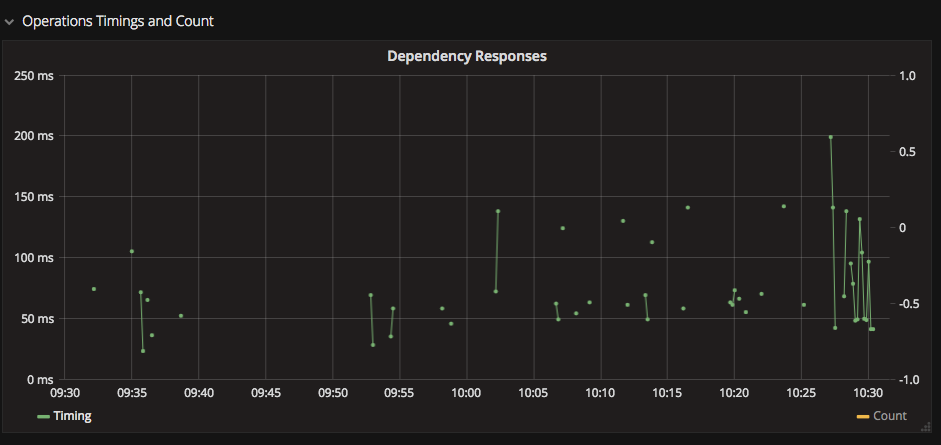
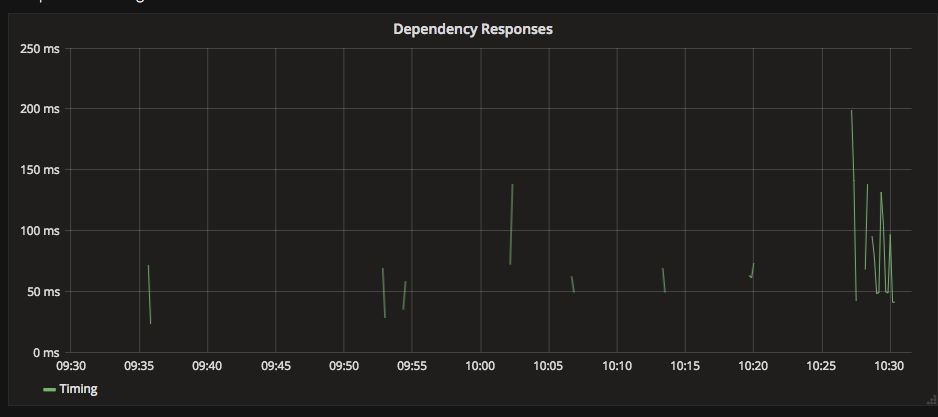
sparse datapoints

diff --git a/_posts/2018-06-28-be-a-grafana-power-user.md b/_posts/2018-06-28-be-a-grafana-power-user.md
@@ -10,7 +10,7 @@ This is a collection of tips and suggestions to make sure that your use of these
 
 <!--more-->
 
-## Summarise all graphs by a templated interval to allow easy control of data granularity
+## 1. Summarise all graphs by a templated interval to allow easy control of data granularity
 
 Grafana is pretty good at trying to guess the interval at which you want to summarise your data, but it doesn't always get it right.
 
@@ -26,7 +26,7 @@ An overridden interval of 1 hour
 
 Trends in the data can be made more obvious by viewing it at the right level of detail.
 
-## Never transform null timings to zero
+## 2. Never transform null timings to zero
 
 In a sparse data set, it's tempting to guarantee that your data does not have huge gaps in it. When counting a stat, e.g. requests per second, a gap in the data means that you got no requests. In this case applying [transformNull(0)](http://graphite.readthedocs.io/en/latest/functions.html#graphite.render.functions.transformNull) makes sense, filling in the gaps in the visualisation.
 
@@ -38,21 +38,33 @@ It now appears that our timings are very spiky and unreliable, which might not b
 
 A gap in latency stats does NOT mean that the latency was 0. It means that no data was available. The gaps in the visualisation tell us that we are not able to answer any questions during that period.
 
-Omitting [transformNull(0)](http://graphite.readthedocs.io/en/latest/functions.html#graphite.render.functions.transformNull) from timing graphs, and rendering with the [Points draw mode](http://docs.grafana.org/features/panels/graph/#draw-modes) highlights the present and absence of data much more clearly.
+Omitting [transformNull(0)](http://graphite.readthedocs.io/en/latest/functions.html#graphite.render.functions.transformNull) from timing graphs highlights the present and absence of data much more clearly.
 
 ![Timings with missing left blank](/images/posts/2018-06-28-be-a-grafana-power-user/transformnull-disabled.png)
 
 Lack of data should not be hidden. Think carefully before transforming data to ensure that the transformation does not obscure the meaning of the data. Graphs are about making information visible, not hiding it.
 
-## On sparse timing data, datapoints can appear as 0 width spots and be invisible, use small spots to make them visible again
-  "https://www.dropbox.com/s/r9rfyh74zyylsqk/Screenshot%202018-06-27%2016.03.48.png?dl=0
-  https://www.dropbox.com/s/b87u0cy7ta83e1b/Screenshot%202018-06-27%2016.03.57.png?dl=0"
+## 3. Use Points Draw Mode to make sparse data more visible
 
-## Always transformNull(0) (if you are going to) before movingAvg or movingMedian, otherwise the transformation will happen to the average, not the data, and it wont average with 0
-  "https://www.dropbox.com/s/2txupy3gssfy0ud/Screenshot%202018-06-27%2016.28.38.png?dl=0"
+On sparse data, data points can appear as lines of zero length and be completely invisible. Enable the [Points draw mode](http://docs.grafana.org/features/panels/graph/#draw-modes) to make isolated stats stand out.
 
-## Always specify the unit of time, e.g. summarise(), movingAverage(), the default is datapoints.
-  "On sparse data, the last N datapoints may be 100 seconds or 100 minutes, you don't know"
+I recommend a width of 1 to ensure that the points merely point the data out and do not blend together, hiding the true data.
+
+![Sparse data rendered with Point Draw Mode](/images/posts/2018-06-28-be-a-grafana-power-user/sparedatawithpoints.png)
+
+## 4. Applying transformNull(0) before aggregation changes the meaning of the aggregation
+
+Always [transformNull(0)](http://graphite.readthedocs.io/en/latest/functions.html#graphite.render.functions.transformNull) (if you are going to) before [movingAvg()](http://graphite.readthedocs.io/en/latest/functions.html#graphite.render.functions.movingAverage), [movingMedian()](http://graphite.readthedocs.io/en/latest/functions.html#graphite.render.functions.movingMedian), or other aggregate functions, otherwise the aggregations will not include the transformed data. 
+ 
+![The difference between transforming first, or aggregating first](/images/posts/2018-06-28-be-a-grafana-power-user/transformfirst-thenaggregate.png)
+
+TODO: Recheck
+
+## 5. Always specify your units
+
+Always specify the unit of time, e.g. summarise(), movingAverage(), the default is the number of data points included.
+
+On sparse data, the last N datapoints may be 100 seconds or 100 minutes, you don't know
 
 ## Standardise your stats, then use repeated Panels for repeated stat types (e.g. for each dependency and it's timings)
 
@@ -74,3 +86,8 @@ Lack of data should not be hidden. Think carefully before transforming data to e
 
 ## Hide Series With No Data
   "https://www.dropbox.com/s/8kxtw6857wflz7v/Screenshot%202018-06-27%2015.58.57.png?dl=0"
+
+
+
+
+http://graphite.readthedocs.io/en/latest/functions.html
